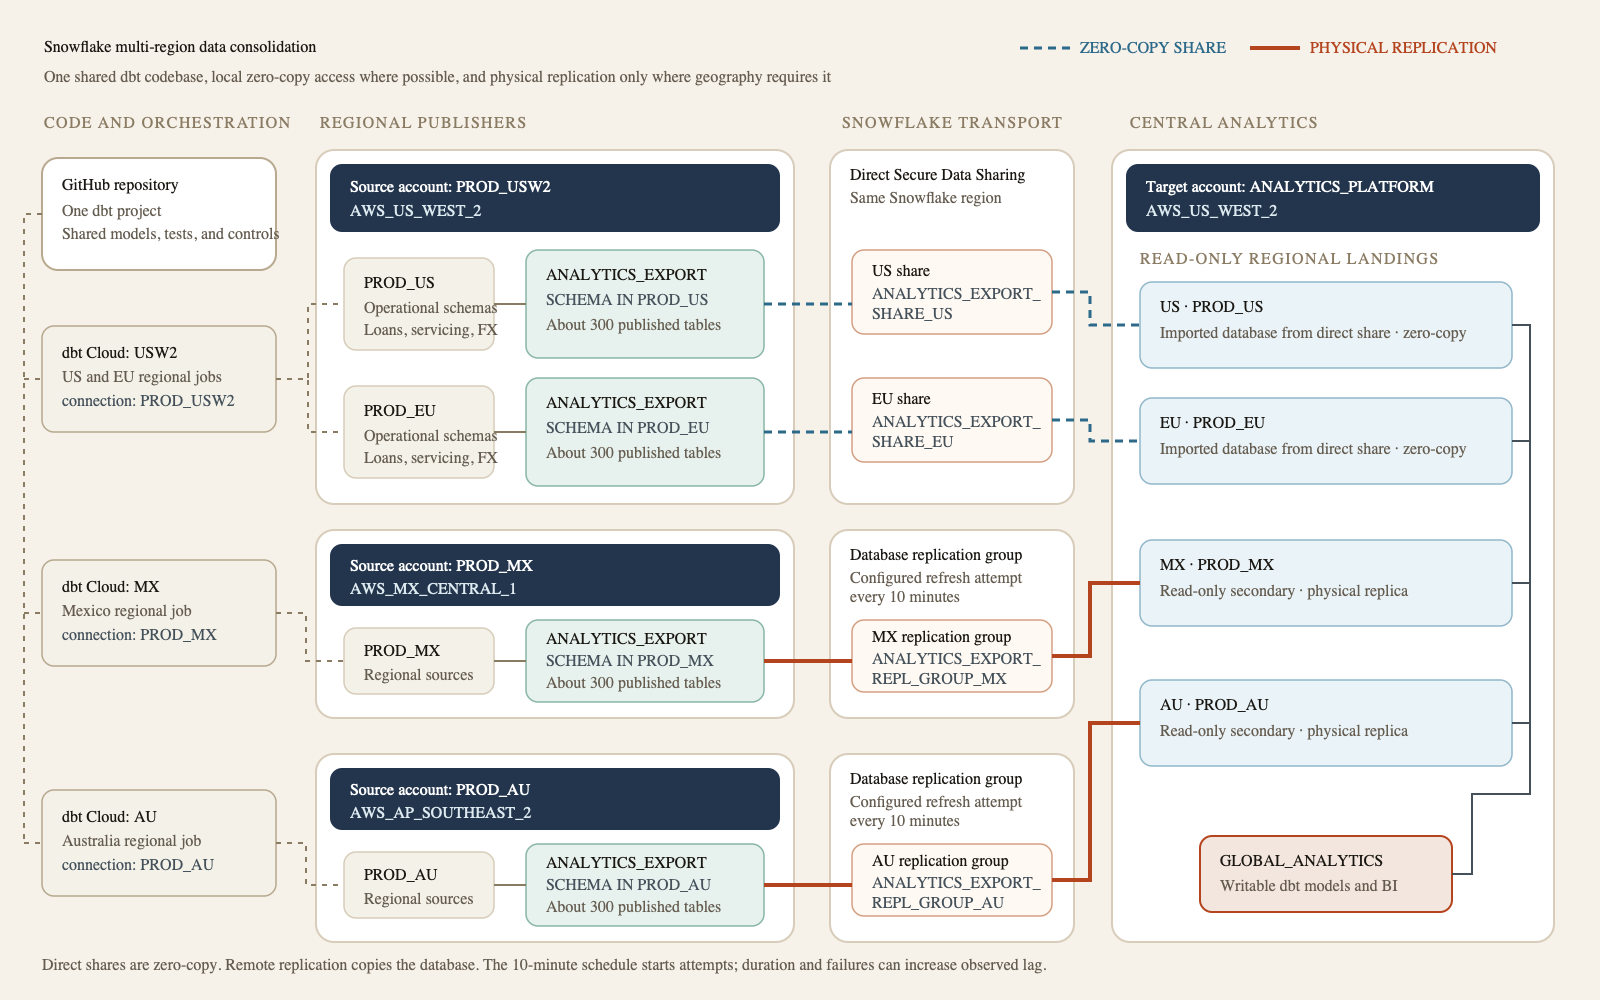
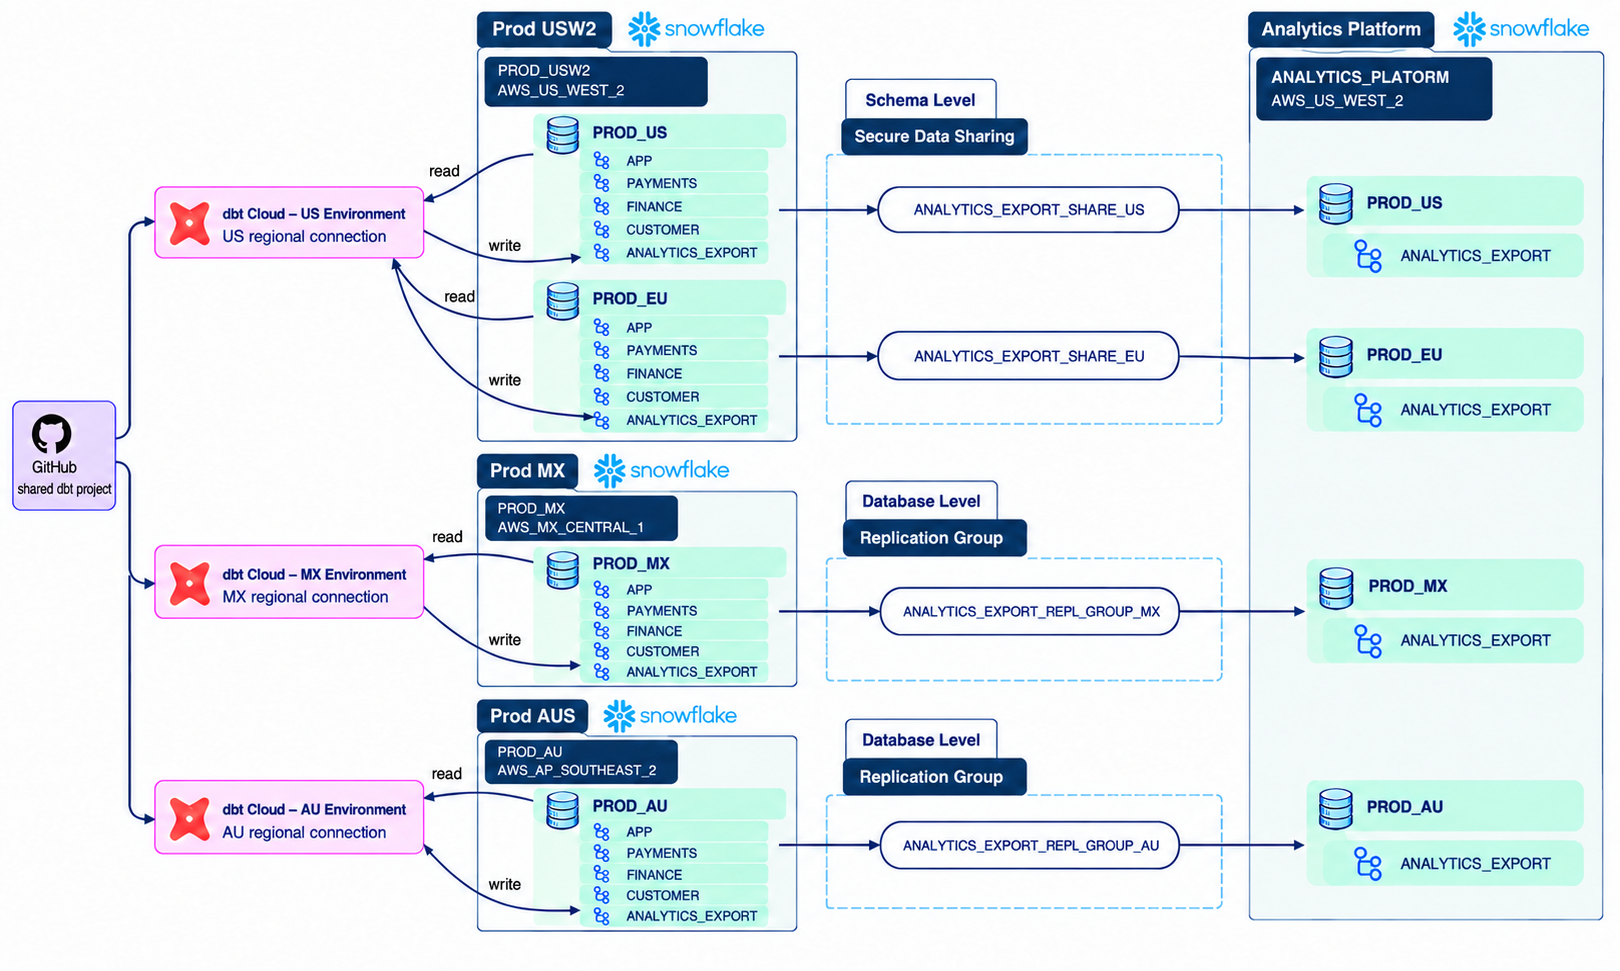
Use supplied architecture and surface implementation

diff --git a/case-studies/snowflake-multi-region-consolidation.html b/case-studies/snowflake-multi-region-consolidation.html
@@ -77,8 +77,8 @@
       </div>
 
       <figure class="architecture-frame">
-        <img src="../assets/img/snowflake-multi-region-consolidation/architecture.png" alt="Detailed architecture showing one dbt repository publishing US, EU, MX, and AU lending data. US and EU use zero-copy shares into the analytics account, while MX and AU use physical replication groups." width="1600" height="1000" />
-        <figcaption>Dashed blue paths are zero-copy shares. Solid terracotta paths are physical cross-region replication. All four read-only landings feed a separate writable global analytics database.</figcaption>
+        <img src="../assets/img/snowflake-multi-region-consolidation/architecture.png" alt="Detailed architecture showing one dbt repository publishing US, EU, MX, and AU lending data. US and EU use zero-copy shares into the analytics account, while MX and AU use physical replication groups." width="1620" height="971" />
+        <figcaption>The left side shows one repository running through three dbt Cloud connections. The center separates schema-level secure shares from database-level replication groups. The target account receives four read-only regional landings.</figcaption>
       </figure>
 
       <table class="results">
@@ -105,7 +105,41 @@
 
       <div class="prose">
         <p>Remote replication operates at database scope, so the MX and AU paths copy more than the schema exposed to analytics. Least-privilege grants keep consumers inside <code>ANALYTICS_EXPORT</code>, while bounded refresh monitoring makes the additional transfer, storage, and compute visible. dbt can reconcile Snowflake object definitions and grants through controlled administrative operations, but Snowflake remains the replication engine and scheduler.</p>
+        <p>The companion repository includes the implementation: environment-driven source routing, four selectors, a graph-wide region-tag guard, share-grant and cleanup macros, a bounded audit, and GitHub Actions for regional CI, dbt Cloud polling and retry, PR cleanup, and post-merge deployment.</p>
       </div>
+
+      <details class="code">
+        <summary>regional source routing and selector</summary>
+        <pre>database: "{{ {'us': 'PROD_US', 'eu': 'PROD_EU',
+               'mx': 'PROD_MX', 'au': 'PROD_AU'}
+             [env_var('DBT_GEO') | lower] }}"
+
+selectors:
+  - name: default_mx
+    default: "{{ ((env_var('DBT_GEO') | lower) == 'mx') | as_bool }}"
+    definition:
+      union:
+        - method: tag
+          value: mx
+        - exclude:
+            - method: tag
+              value: audit</pre>
+      </details>
+
+      <details class="code">
+        <summary>one reusable dbt Cloud runner for every regional job</summary>
+        <pre>uses: ./.github/workflows/_reusable-dbt-cloud-run.yml
+with:
+  job_name: Data Platform CI MX
+  job_id: ${{ vars.DBT_JOB_ID_CI_MX }}
+  account_id: ${{ vars.DBT_CLOUD_ACCOUNT_ID }}
+  base_url: ${{ vars.DBT_CLOUD_BASE_URL }}
+  git_sha: ${{ github.event.pull_request.head.sha }}
+  pr_number: ${{ github.event.number }}
+  enable_rerun_detection: true
+secrets:
+  DBT_CLOUD_API_TOKEN: ${{ secrets.DBT_CLOUD_API_TOKEN }}</pre>
+      </details>
     </section>
 
     <section aria-labelledby="scale" style="margin-top:44px">
@@ -146,9 +180,10 @@
       </table>
 
       <div class="callout" style="max-width:800px">
-        <p style="margin:0"><strong>Companion architecture.</strong> The project documents the detailed topology, dbt regional control pattern, replication freshness flow, and incident path.</p>
+        <p style="margin:0"><strong>Source and implementation.</strong> The project contains the detailed architecture plus the dbt macros, selectors, audit, and GitHub Actions that operate the regional publishing flow.</p>
         <div class="source-links">
           <a class="ulink" href="https://github.com/dymytryo/data_warehouse/tree/main/projects/snowflake-multi-region-consolidation">Project README</a>
+          <a class="ulink" href="https://github.com/dymytryo/data_warehouse/tree/main/projects/snowflake-multi-region-consolidation/implementation">Implementation files</a>
           <a class="ulink" href="https://github.com/dymytryo/data_warehouse/blob/main/projects/snowflake-multi-region-consolidation/diagrams/snowflake-multi-region-sharing.png">Architecture diagram</a>
         </div>
       </div>
